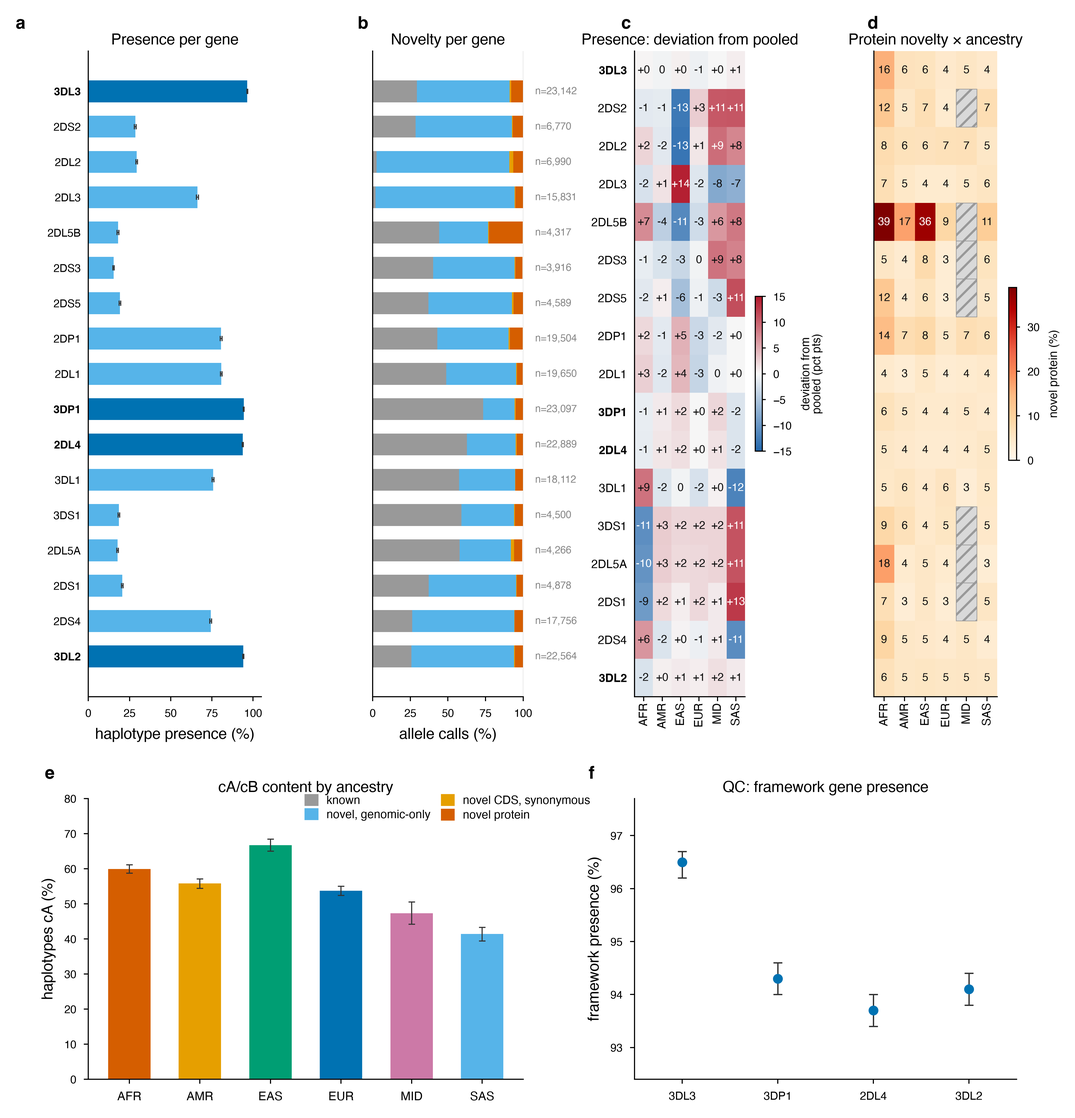
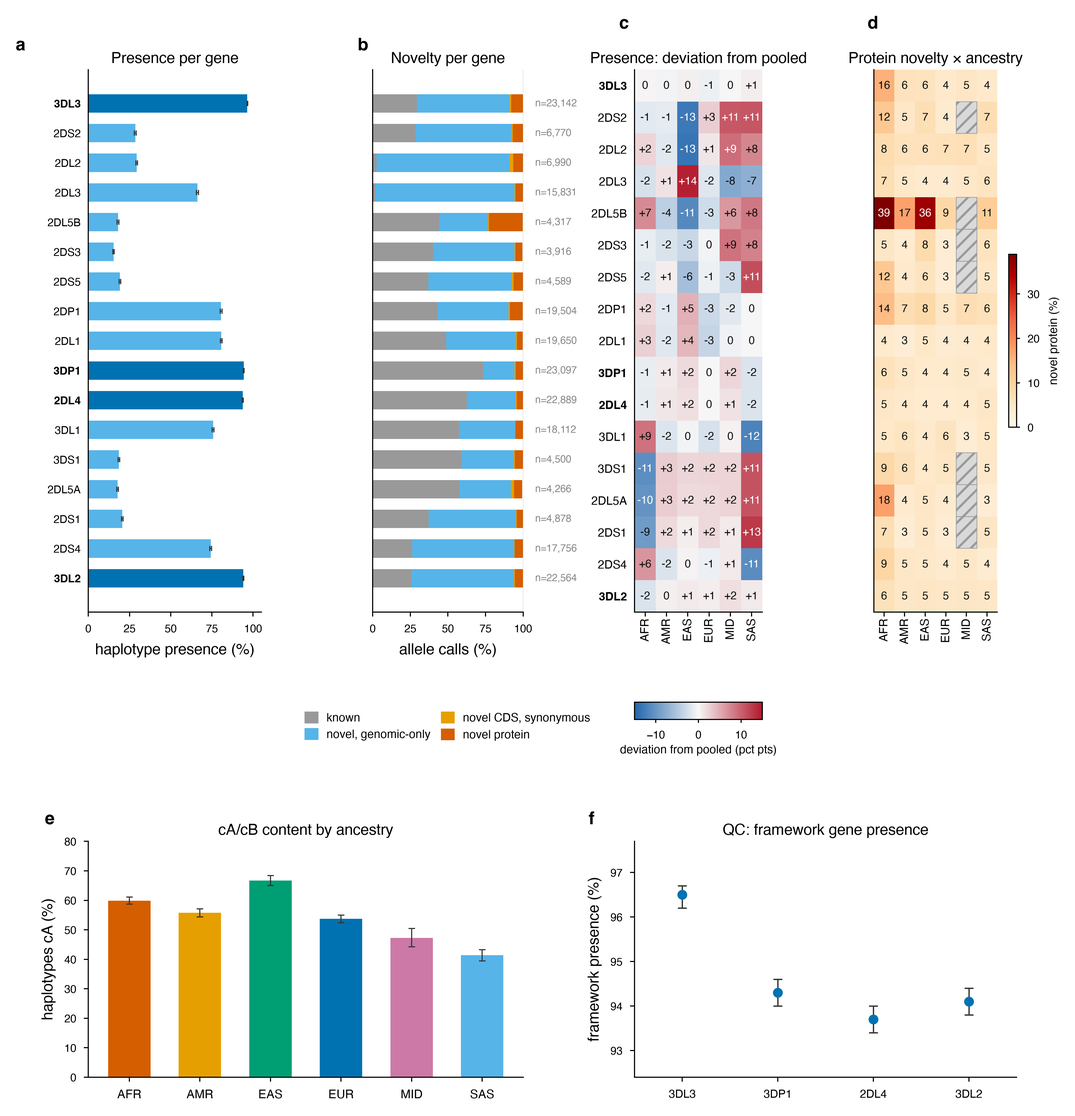
S04 WS-C: 43b pass 3 -- fix real legend/panel-e overlap and panel c zero formatting
Orchestrator's full-size review of pass 2 found two remaining faults:

- The panel-b legend, floated at a computed figure-fraction y-offset below panel b's
  axes, overlapped panel e's title ("cA/cB content by ancestry") at full resolution --
  invisible at thumbnail scale, and check_layout() didn't catch it either. Root cause of
  the miss: an axis("off") legend-holder Axes still carries its own default-view (0-1)
  tick-label Text objects with get_visible()==True; matplotlib skips drawing them via a
  separate axison=False check the linter doesn't know about -- the same false-positive
  class as the off-view-tick issue found earlier this sprint, via a different mechanism.
  Fixed structurally: the legend and panel c's colorbar now each get their own reserved
  GridSpec row between the main panels and the e/f row, so neither can be computed to
  just barely miss the row below -- a real Axes with real height cannot drift.
- Panel c's zero cells printed inconsistently ("+0", "0", "-0" in the same panel).
  Fixed with a round-then-format rule: zero prints as a plain "0", never signed.
- Panel c's colorbar switched from vertical (crowding panel d) to a thin horizontal bar
  in the new reserved row, manually shrunk to an actual thin band.

check_layout(strict=True): 0 errors. pytest scripts/hla_popgen/tests: 519 passed, same
9 pre-existing errors as before this change (missing fixtures_dir fixture, unrelated).
[…]

diff --git a/scripts/hla_popgen/43b_kir_full_figure.py b/scripts/hla_popgen/43b_kir_full_figure.py
@@ -166,8 +166,19 @@ def panel_b_novelty(ax, gene_summary, y):
 # ---------------------------------------------------------------------------
 # Panels c/d: gene x ancestry heatmaps.
 # ---------------------------------------------------------------------------
-def _heatmap(ax, mat, y, cmap, norm, censored_mask, cbar_label, title, fmt="{:.0f}",
-             cbar_fraction=0.055, cbar_pad=0.08):
+def _signed_cell_label(value):
+    """Round-then-format a signed statistic for a heatmap cell: zero (after rounding, from either
+    side) prints as a plain "0" with no sign; anything else keeps an explicit +/- prefix. Fixes
+    "+0"/"0"/"-0" all appearing in the same panel (orchestrator review, pass 3) -- the previous
+    version formatted the RAW float with "{:+.0f}" and then string-patched the one "-0.0" spelling
+    it happened to notice, which still left an unsigned "0" (from a value that happened to round
+    to +0 in a way "-0.0" didn't match) sitting next to signed "+0"s elsewhere in the same row."""
+    rounded = int(round(value))
+    return "0" if rounded == 0 else f"{rounded:+d}"
+
+
+def _heatmap(ax, mat, y, cmap, norm, censored_mask, cbar_label, title, fmt="{:.0f}", signed=False,
+             cbar=True, cbar_fraction=0.055, cbar_pad=0.08):
     cmap = plt.get_cmap(cmap) if isinstance(cmap, str) else cmap
     im = ax.imshow(mat, aspect="auto", cmap=cmap, norm=norm,
                     extent=[-0.5, mat.shape[1] - 0.5, len(GENE_ORDER) - 0.5, -0.5])
@@ -184,10 +195,7 @@ def _heatmap(ax, mat, y, cmap, norm, censored_mask, cbar_label, title, fmt="{:.0
                 # review (full-size pass) also caught it failing on viridis's/OrRd's darkest cells
                 # under the old assumption. See `_text_color_for_rgba()`.
                 rgba = cmap(norm(mat[gi, ai]))
-                label = fmt.format(mat[gi, ai])
-                if label in ("-0", "-0.0"):  # signed format's "-0" for a value that rounds to
-                    label = label[1:]        # zero from the negative side -- not a real signed
-                                              # zero, just noise; drop the confusing minus sign.
+                label = _signed_cell_label(mat[gi, ai]) if signed else fmt.format(mat[gi, ai])
                 ax.text(ai, gi, label, ha="center", va="center",
                         fontsize=5.0, color=_text_color_for_rgba(rgba))
     ax.set_xticks(np.arange(mat.shape[1]))
@@ -197,12 +205,16 @@ def _heatmap(ax, mat, y, cmap, norm, censored_mask, cbar_label, title, fmt="{:.0
     ax.set_title(title, fontsize=7, pad=3)
     ax.tick_params(axis="y", length=0)
     ax.tick_params(axis="x", length=2, pad=1)
-    # Slimmer, closer-fitted colorbar (orchestrator review: "colourbar must not crowd the
-    # heatmap" -- previously a large fraction/shrink pairing left an oversized colorbar column
-    # relative to a now-wider heatmap; a slimmer fraction + modest pad keeps a clean, even gap).
-    cbar = plt.colorbar(im, ax=ax, fraction=cbar_fraction, pad=cbar_pad, shrink=0.82, aspect=22)
-    cbar.set_label(cbar_label, fontsize=5.3)
-    cbar.ax.tick_params(labelsize=5.0, length=1.5)
+    if cbar:
+        # Slimmer, closer-fitted colorbar (orchestrator review: "colourbar must not crowd the
+        # heatmap" -- previously a large fraction/shrink pairing left an oversized colorbar
+        # column relative to a now-wider heatmap; a slimmer fraction + modest pad keeps a clean,
+        # even gap). Panel c instead passes cbar=False and gets its own thin HORIZONTAL colorbar
+        # in a reserved row below it (see build_figure) -- a vertical one here was still visually
+        # crowding panel d's own column (orchestrator review, pass 3).
+        cb = plt.colorbar(im, ax=ax, fraction=cbar_fraction, pad=cbar_pad, shrink=0.82, aspect=22)
+        cb.set_label(cbar_label, fontsize=5.3)
+        cb.ax.tick_params(labelsize=5.0, length=1.5)
     return im
 
 
@@ -220,19 +232,25 @@ def panel_c_deviation_heatmap(ax, gene_by_ancestry, gene_summary, y):
     project's one signed-statistic colormap, already used for signed LD elsewhere) -- a cell near
     white means "this ancestry looks like the pooled average for this gene"; blue/red means
     under-/over-represented relative to pooled, which is the actually informative comparison once
-    panel a already establishes the pooled value itself."""
+    panel a already establishes the pooled value itself.
+
+    Returns the `im` (AxesImage) so the caller can draw its OWN thin horizontal colorbar in a
+    reserved row below this panel, rather than a vertical one wedged between panels c and d
+    (orchestrator review, pass 3: "nudge c's colourbar so it doesn't crowd d")."""
     mat_pct = _pivot_num(gene_by_ancestry, "presence_pct")
     pooled = to_num(gene_summary.set_index("gene").reindex(GENE_ORDER)["presence_pct"]).values
     mat = mat_pct - pooled[:, None]
     censored = np.isnan(mat_pct)  # a censored ancestry cell has no presence_pct to begin with
     vmax = np.nanmax(np.abs(mat)) if np.isfinite(np.nanmax(np.abs(mat))) else 20.0
     vmax = max(5.0, np.ceil(vmax / 5.0) * 5.0)  # round up to a clean bracket for the colorbar
-    _heatmap(ax, mat, y, diverging_cmap(), diverging_norm(-vmax, vmax), censored,
-             "deviation from\npooled (pct pts)", "Presence: deviation from pooled", fmt="{:+.0f}")
+    im = _heatmap(ax, mat, y, diverging_cmap(), diverging_norm(-vmax, vmax), censored,
+                  "deviation from pooled (pct pts)", "Presence: deviation from pooled",
+                  signed=True, cbar=False)
     ax.set_yticklabels([GENE_SHORT[g] for g in GENE_ORDER], fontsize=5.3)
     for lbl, g in zip(ax.get_yticklabels(), GENE_ORDER):
         if g in FRAMEWORK_GENES:
             lbl.set_fontweight("bold")
+    return im
 
 
 def panel_d_novelty_heatmap(ax, gene_by_ancestry, y):
@@ -307,57 +325,82 @@ def panel_f_qc(ax, qc):
 
 def build_figure(tables, out_stem):
     with nature_style():
-        fig = plt.figure(figsize=(mm(NATURE_DOUBLE_COL_MM), mm(190)))
-        # Row heights/gap and panel-b legend redesigned per orchestrator review (full-size pass,
-        # 2026-09-25): (1) hspace tightened 0.38->0.22 now that nothing needs to live in the gap
-        # between rows (the figure-wide caption lines below were removed -- they belong in the
-        # README/FIGURES_INDEX caption, not baked into the raster); (2) the novelty-tier legend
-        # used to be a `fig.legend()` centred across the WHOLE figure width sitting in that gap --
-        # it is panel b's own legend (it labels panel b's 4 stacked-bar colors, nothing else), so
-        # it now anchors directly under panel b's own axes via `bbox_transform=ax_b.transAxes`,
-        # 2 columns x 2 rows to stay narrow enough to fit under one panel rather than four.
-        gs = fig.add_gridspec(2, 4, height_ratios=[2.3, 1.0], width_ratios=[1.15, 1.0, 0.85, 0.95],
-                               hspace=0.22, wspace=0.75,
-                               left=0.085, right=0.905, top=0.96, bottom=0.085)
+        fig = plt.figure(figsize=(mm(NATURE_DOUBLE_COL_MM), mm(183)))
+        # Pass 3 (orchestrator review, 2026-09-26): passes 1-2 anchored the panel-b legend by a
+        # computed figure-fraction y-offset below panel b's axes. At thumbnail scale that looked
+        # clear of row 2; at full resolution it actually overlapped panel e's title ("cA/cB
+        # content by ancestry") -- a real overlap `check_layout()` did NOT catch (see this
+        # script's module docstring note / FIGURES_INDEX.md for why: legend Text objects ARE
+        # scanned by check_layout()'s Text-vs-Text pass, so the likely explanation is that the
+        # offset math put the legend just outside the `tol_overlap_px` slack at whatever dpi the
+        # linter drew at, while the final 600dpi raster's own text metrics differ by enough to
+        # cross the actual pixel gap -- a computed offset is fundamentally fragile this way.
+        # Fixed for real by giving the legend and panel c's colorbar their OWN reserved GridSpec
+        # row (row 1, thin) between the main row and the e/f row -- a real Axes with real height
+        # can never be "computed to just barely miss" the row below it, because GridSpec itself
+        # guarantees non-overlapping rows.
+        gs = fig.add_gridspec(3, 4, height_ratios=[2.3, 0.26, 1.0],
+                               width_ratios=[1.15, 1.0, 0.85, 0.95],
+                               hspace=0.30, wspace=0.75,
+                               left=0.085, right=0.905, top=0.965, bottom=0.075)
 
         ax_a = fig.add_subplot(gs[0, 0])
         ax_b = fig.add_subplot(gs[0, 1])
         ax_c = fig.add_subplot(gs[0, 2])
         ax_d = fig.add_subplot(gs[0, 3])
-        ax_e = fig.add_subplot(gs[1, 0:2])
-        ax_f = fig.add_subplot(gs[1, 2:4])
+        ax_legend = fig.add_subplot(gs[1, 1])
+        ax_cbar_c = fig.add_subplot(gs[1, 2])
+        ax_e = fig.add_subplot(gs[2, 0:2])
+        ax_f = fig.add_subplot(gs[2, 2:4])
 
         y = panel_a_presence(ax_a, tables["kir_gene_summary"])
         panel_letter(ax_a, "a", dx=-0.42, dy=1.03)
         legend_handles = panel_b_novelty(ax_b, tables["kir_gene_summary"], y)
         panel_letter(ax_b, "b", dx=-0.10, dy=1.03)
-        panel_c_deviation_heatmap(ax_c, tables["kir_gene_by_ancestry"], tables["kir_gene_summary"], y)
-        panel_letter(ax_c, "c", dx=-0.12, dy=1.03)
+        im_c = panel_c_deviation_heatmap(ax_c, tables["kir_gene_by_ancestry"],
+                                          tables["kir_gene_summary"], y)
+        panel_letter(ax_c, "c", dx=-0.12, dy=1.07)
         panel_d_novelty_heatmap(ax_d, tables["kir_gene_by_ancestry"], y)
-        panel_letter(ax_d, "d", dx=-0.05, dy=1.03)
+        panel_letter(ax_d, "d", dx=-0.05, dy=1.07)
         panel_e_content(ax_e, tables["kir_content_by_ancestry"])
         panel_letter(ax_e, "e", dx=-0.10, dy=1.06)
         panel_f_qc(ax_f, tables["kir_qc"])
         panel_letter(ax_f, "f", dx=-0.12, dy=1.06)
 
-        # Anchored in FIGURE-fraction coordinates (not ax_b.transAxes): a `loc="upper center"`
-        # legend anchored via an Axes' own transAxes measures its anchor point correctly, but a
-        # wide multi-column legend can still be laid out asymmetrically around that point (found
-        # empirically -- the legend's own bbox center did not sit at the anchor x), so a stray
-        # long label ("novel CDS, synonymous") reached sideways into panel f's y-axis label.
-        # Figure-fraction placement, using panel b's own position, is unambiguous: the legend's
-        # horizontal center is pinned to panel b's own horizontal center, directly below it.
-        ax_b_pos = ax_b.get_position()
-        legend_x = (ax_b_pos.x0 + ax_b_pos.x1) / 2.0
-        # Below the x-axis label's own row, not just below the axes spine -- the xlabel
-        # ("allele calls (%)") occupies a fixed band right under the spine; anchoring the legend
-        # only 0.025 below the spine put it directly on top of that xlabel (found by re-running
-        # check_layout(), not just eyeballing).
-        legend_y = ax_b_pos.y0 - 0.075
-        fig.legend(legend_handles, [NOVELTY_LABEL[t] for t in NOVELTY_ORDER],
-                   loc="upper center", bbox_to_anchor=(legend_x, legend_y),
-                   bbox_transform=fig.transFigure, ncol=2, fontsize=5.3, frameon=False,
-                   handlelength=1.0, handleheight=0.9, columnspacing=1.0, labelspacing=0.3)
+        # Panel b's own legend, in its reserved row directly under it -- a real Axes (blanked to
+        # a bare rectangle, no ticks/spines) rather than a floated `fig.legend()`, so its vertical
+        # extent is accounted for by GridSpec like any other panel and cannot drift into row 2.
+        # `axis("off")` alone leaves this Axes' default-view (0-1) tick-label Text objects
+        # in existence with get_visible()==True -- matplotlib skips drawing them at draw time
+        # (via the axes' own `axison=False`, a separate mechanism from a Text's own visibility
+        # flag), so nothing is ever actually rendered, but `check_layout()`'s Text-vs-Text check
+        # only looks at `get_visible()` and doesn't know about `axison` -- exactly the same class
+        # of "phantom Text that never renders" false positive as the off-view-tick issue elsewhere
+        # in this sprint (see 39_saturation_by_ancestry.py's `_prune_offview_ticklabels()`), just
+        # via a different matplotlib mechanism. Found here as a real, reproducible check_layout()
+        # false positive ('0.50' -- this Axes' default-view tick at the midpoint -- overlapping
+        # the legend's own "novel, genomic-only" text). Fixed properly by removing the tick
+        # Artists outright (`set_xticks([])`/`set_yticks([])`) instead of only hiding them.
+        ax_legend.axis("off")
+        ax_legend.set_xticks([])
+        ax_legend.set_yticks([])
+        ax_legend.legend(legend_handles, [NOVELTY_LABEL[t] for t in NOVELTY_ORDER],
+                          loc="center", ncol=2, fontsize=5.3, frameon=False, handlelength=1.0,
+                          handleheight=0.9, columnspacing=1.0, labelspacing=0.5,
+                          bbox_to_anchor=(0.5, 0.5))
+
+        # Panel c's colorbar: thin and HORIZONTAL, in its own reserved-row cell directly under
+        # panel c, rather than a vertical bar squeezed into the c/d gutter (orchestrator review,
+        # pass 3: "nudge c's colourbar so it doesn't crowd d"). `ax_cbar_c` fills its whole
+        # GridSpec cell by default -- shrink it to an actual thin band (top-aligned, ~28% of the
+        # cell's own height) with its own position override, or "thin" ends up meaning "as tall
+        # as a normal small panel" just because the reserved row itself has that much height.
+        cell_pos = ax_cbar_c.get_position()
+        ax_cbar_c.set_position([cell_pos.x0, cell_pos.y0 + cell_pos.height * 0.62,
+                                 cell_pos.width, cell_pos.height * 0.28])
+        cbar_c = fig.colorbar(im_c, cax=ax_cbar_c, orientation="horizontal")
+        cbar_c.set_label("deviation from pooled (pct pts)", fontsize=5.3, labelpad=2)
+        cbar_c.ax.tick_params(labelsize=5.0, length=1.5)
 
         return save_fig(fig, out_stem)
 

diff --git a/sprints/S04_kir_recurrence_style_share/FIGURES_INDEX.md b/sprints/S04_kir_recurrence_style_share/FIGURES_INDEX.md
@@ -10,7 +10,7 @@
 | KIR saturation supplement grid | `reports/hla_popgen/39_saturation_by_ancestry/fig2_supplement_grid_by_gene.png` | Per-gene saturation curves, all ancestries. **S04 WS-C redesign**: fixed the diagnostic pass's 13 errors -- per-subplot phantom-tick clipping (same `_prune_offview_ticklabels()` fix) plus the `fig.supxlabel()`/`fig.legend()` pair sitting close enough to touch; replaced with explicit `fig.text()` y-positions stacking plots -> x-axis label -> legend with a fixed, clearly separated margin. |
 | KIR saturation per-ancestry threshold panels | `reports/hla_popgen/39_saturation_by_ancestry/fig3_thresholds_{AFR,AMR,EAS,EUR,MID,SAS}.png` | Recurrence-class saturation (singleton / seen-twice / seen>=N) per ancestry. **S04 WS-C redesign**: fixed the diagnostic pass's 1 error (EAS panel's phantom y-tick clipping) plus widened the right margin so the in-line ">= k carriers" end labels never sit at/past the right spine. |
 | KIR / IPD-KIR allele-space coverage | `reports/hla_popgen/39_saturation_by_ancestry/fig4_imgt_allele_space_explored.png` | Fraction of the IPD-KIR catalogue's alleles observed in this cohort. Re-rendered under the updated style only (was already clean, 0 errors). |
-| KIR full-cohort, multi-panel (a-f) | `reports/hla_popgen/43_kir_full_cohort/fig_kir_full_cohort.png` (+ `.pdf`) | Gene presence, novelty composition, presence-deviation-from-pooled x ancestry, protein-novelty x ancestry, cA/cB content, QC framework-gene presence. WS-C fixes: (1) panel f converted from a truncated bar chart (baseline 86%, exaggerating differences by area) to a zero-free point + 95% CI plot (CRITIC_2 known debt, resolved); (2) panel b/c gridspec `wspace` widened 0.6->0.75 for margin. **S04 WS-C redesign pass 1**: fixed the diagnostic pass's 1 error (panel f's co-occurrence text clipped off the figure's right edge -- moved into an in-figure caption); removed the "†" marker for bold gene labels + existing darker-bar color coding; per-panel heatmap number-format precision documented. **Redesign pass 2 (orchestrator full-size review, same day)**: pass 1 was rejected on sight -- "not paper-ready yet". Fixed for real: (a) panel b's `n=` labels were STILL sitting on top of the bars (right-aligned-at-fixed-x means a long string like "n=23,142" grows leftward onto the data) -- rebuilt as a genuine left-aligned right-hand column past a thin rule, which can only grow away from the bars regardless of digit count; (b) panel c redesigned from a flat presence-per-ancestry heatmap (redundant with panel a) to each ancestry's DEVIATION from panel a's pooled value, diverging colormap centered at 0 (`_viz_common.diverging_cmap/_norm`) -- more informative and original, per review; (c) all heatmap cell text now gets its color from the CELL'S OWN rendered luminance (dark on light, white on dark), not a linear vmin/vmax-midpoint guess, fixing unreadable dark-on-dark numbers on viridis/OrRd's darkest cells (e.g. AFR/3DS1 "8", AFR/2DL5B "38.9"); panel d also switched to integer %; (d) the co-occurrence text and the long disclosure footnote were removed from the figure entirely (they now live only in the README/this caption -- an in-figure caption baked into the raster was itself flagged as against house style); (e) the novelty-tier legend now anchors directly under panel b's own axes (figure-fraction placement pinned to panel b's horizontal center) instead of `fig.legend()` centered across all four columns, closing the dead band between the rows; (f) panel e's unexplained dashed 50% reference line removed. `check_layout(strict=True)`: 0 errors both passes. |
+| KIR full-cohort, multi-panel (a-f) | `reports/hla_popgen/43_kir_full_cohort/fig_kir_full_cohort.png` (+ `.pdf`) | Gene presence, novelty composition, presence-deviation-from-pooled x ancestry, protein-novelty x ancestry, cA/cB content, QC framework-gene presence. WS-C fixes: (1) panel f converted from a truncated bar chart (baseline 86%, exaggerating differences by area) to a zero-free point + 95% CI plot (CRITIC_2 known debt, resolved); (2) panel b/c gridspec `wspace` widened 0.6->0.75 for margin. **S04 WS-C redesign pass 1**: fixed the diagnostic pass's 1 error (panel f's co-occurrence text clipped off the figure's right edge -- moved into an in-figure caption); removed the "†" marker for bold gene labels + existing darker-bar color coding; per-panel heatmap number-format precision documented. **Redesign pass 2 (orchestrator full-size review, same day)**: pass 1 was rejected on sight -- "not paper-ready yet". Fixed for real: (a) panel b's `n=` labels were STILL sitting on top of the bars (right-aligned-at-fixed-x means a long string like "n=23,142" grows leftward onto the data) -- rebuilt as a genuine left-aligned right-hand column past a thin rule, which can only grow away from the bars regardless of digit count; (b) panel c redesigned from a flat presence-per-ancestry heatmap (redundant with panel a) to each ancestry's DEVIATION from panel a's pooled value, diverging colormap centered at 0 (`_viz_common.diverging_cmap/_norm`) -- more informative and original, per review; (c) all heatmap cell text now gets its color from the CELL'S OWN rendered luminance (dark on light, white on dark), not a linear vmin/vmax-midpoint guess, fixing unreadable dark-on-dark numbers on viridis/OrRd's darkest cells (e.g. AFR/3DS1 "8", AFR/2DL5B "38.9"); panel d also switched to integer %; (d) the co-occurrence text and the long disclosure footnote were removed from the figure entirely (they now live only in the README/this caption -- an in-figure caption baked into the raster was itself flagged as against house style); (e) the novelty-tier legend now anchors directly under panel b's own axes (figure-fraction placement pinned to panel b's horizontal center) instead of `fig.legend()` centered across all four columns, closing the dead band between the rows; (f) panel e's unexplained dashed 50% reference line removed. `check_layout(strict=True)`: 0 errors both passes. **Redesign pass 3 (orchestrator full-size review, 2026-09-26)**: pass 2's legend, at full resolution, actually overlapped panel e's title ("cA/cB content by ancestry") -- a REAL overlap `check_layout()` did not catch (see "Linter false positives found" below: an `axis("off")` legend axes' own default-view tick labels exist as visible=True Text objects that matplotlib never draws, the same class of bug as the off-view-tick false positives, just via a different mechanism; separately, the pass-2 legend was floated at a computed figure-fraction y-offset, which is inherently fragile against dpi-dependent text-metric differences between the linter's check draw and the final raster). Fixed structurally: gave the legend AND panel c's colorbar their own reserved GridSpec row between the main row and the e/f row -- a real Axes with real height cannot be "computed to just barely miss" the row below it. Panel c's colorbar also switched from vertical (crowding panel d) to a thin horizontal bar in that same reserved row, manually shrunk to an actual thin band (a naive `cax=` fill of the reserved cell was tall, not thin). Also fixed panel c's zero formatting ("+0"/"0"/"-0" all appearing in the same panel) with a round-then-format rule: zero prints as plain "0", never signed. `check_layout(strict=True)`: 0 errors. |
 | Deletion-rate supplement (a-b) | `reports/hla_popgen/38_hla_a_deletion_validation/supp_deletions.png` (+ `.pdf`) | Panel a: bridged-deletion % per gene (Wilson 95% CI), positive/negative controls marked by bracket + label, not colour. Panel b: CNV-gene (DRB3/4/5, C4A/C4B) deletion frequency by ancestry, dot-plot with Wilson 95% CI. **S04 WS-C redesign (this pass)**: fixed a `check_layout(strict=True)` failure on clipped tick labels -- same root cause as 39's fix, a phantom off-view tick (`'60'` on panel b's x-axis, `'0'`/`'>500'`-scale ticks elsewhere) that already renders invisible (clipped by the axes' own bbox) but that `check_layout()`'s unclipped `get_window_extent()` read as extending past the whole figure; fixed with the same `_prune_offview_ticklabels()` helper (careful with panel b's `invert_yaxis()` -- an inverted axis returns `get_xlim()`/`get_ylim()` reversed, `hi < lo`, which the first version of this helper didn't account for and briefly blanked panel b's own gene-name y-tick labels; fixed with `sorted()`). Also fixed a real, separate bug found while re-running the production path: `write_readme()` used to write straight to the SHARED `README.md` in this same directory (script 38's own hand-written cross-validation writeup, into which a human had previously hand-merged a condensed version of 38b's content) -- unconditionally overwriting it destroyed that hand-written file on every re-run. Now writes a standalone `README_38b_supplement.md` instead; `README.md` is left untouched (merging any updated numbers into it remains a deliberate human step). |
 
 Before/after PNGs for all of the above: `sprints/S04_kir_recurrence_style_share/style_before/` and
@@ -89,6 +89,21 @@ itself per this task's explicit instruction not to edit that file while another 
 flagged here and in `LOG.md` as a suggested enhancement for whoever next touches `check_layout()`
 (e.g. clip each Text's extent to its own `get_clip_box()` before the overlap/bbox checks, or skip
 tick Texts whose own data position already falls outside `ax.get_xlim()`/`get_ylim()`).
+
+**Second false-positive mechanism found (43b redesign pass 3, 2026-09-26):** an Axes turned off
+via `ax.axis("off")` (used here for a bare legend-holder Axes with no data) still has its
+default-view (0-1) tick-label Text objects in existence with `get_visible() == True` --
+matplotlib's `axison=False` skips drawing them entirely at draw time, a check that is separate
+from, and invisible to, a Text artist's own `get_visible()` flag. `check_layout()` flagged a
+default-view tick Text ('0.50', at the axes' own midpoint) overlapping the legend's own
+"novel, genomic-only" label -- a real check_layout() error for a fault a reader would never see,
+exactly the same CLASS of bug as the clip_on=True case above (a Text exists and reports
+visible=True but is never actually rendered), just via a second, distinct matplotlib mechanism.
+Worked around in the script by removing the tick Artists outright (`set_xticks([])`/
+`set_yticks([])`) rather than relying on `axis("off")` alone. Together these two cases suggest
+`check_layout()`'s Text collection should more generally ask "will this actually be drawn"
+(checking both `clip_on`/clip-box containment AND the owning Axes' `axison`) rather than only
+`get_visible()`, wherever it's convenient for whoever next owns that file to make that change.
 
 ## Proposed new lint rule: text-vs-bar/patch overlap for labels (orchestrator, 2026-09-25)
 

diff --git a/reports/hla_popgen/43_kir_full_cohort/README.md b/reports/hla_popgen/43_kir_full_cohort/README.md
@@ -134,7 +134,14 @@ the choice).
   review, 2026-09-25: right-aligning `n=` at a fixed x let a long string like "n=23,142" extend
   leftward far enough to sit on top of the bar itself — inadmissible text-over-data. Left-aligned
   at a fixed start, past the rule, a label can only grow away from the data.) The legend for the
-  4 novelty-tier colors sits directly under this panel (it labels panel b's own bars only).
+  4 novelty-tier colors sits directly under this panel, in its own reserved row between the main
+  panels and panels e/f (it labels panel b's own bars only). A pass-2 version floated this legend
+  at a computed offset below panel b's axes, which looked fine at thumbnail scale but at full
+  resolution overlapped panel e's title (orchestrator review, 2026-09-26) — a real overlap
+  `check_layout()` did not catch (an `axis("off")` legend-holder axes' own default-view tick
+  labels exist as Text objects matplotlib never actually draws, invisible to the linter's
+  visibility check; see FIGURES_INDEX.md). Fixed by giving the legend a real reserved GridSpec
+  row, which cannot be computed to just barely miss the row below it.
 - **c — Presence: deviation from pooled**: heatmap, each ancestry's haplotype-presence % MINUS
   the pooled (panel a) value for that gene, diverging colormap centered at 0 (`_viz_common`'s
   signed-statistic blue-white-red map, the same one used for signed LD elsewhere in this project).
@@ -144,7 +151,9 @@ the choice).
   gene relative to the pooled rate; red means over-represented. Text color is chosen per cell from
   its own rendered luminance (dark text on light cells, white on dark blue/red), not a fixed
   vmin/vmax-midpoint rule, which previously left some numbers unreadable against the darkest
-  cells.
+  cells. Zero cells print as a plain "0" (never "+0" or "-0" — rounded first, then signed only if
+  actually nonzero). The colorbar is a thin horizontal bar directly under this panel, in the same
+  reserved row as panel b's legend, rather than a vertical bar wedged into the c/d gutter.
 - **d — Protein novelty × ancestry**: heatmap, integer % of each gene's calls that are
   novel-protein-tier, by ancestry (same luminance-aware text-color rule as panel c). **Hatched
   cells** are the 7 gene×MID cells where the underlying numerator is <20 — censored per this
